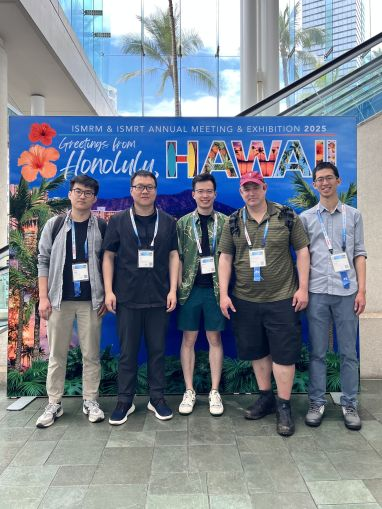
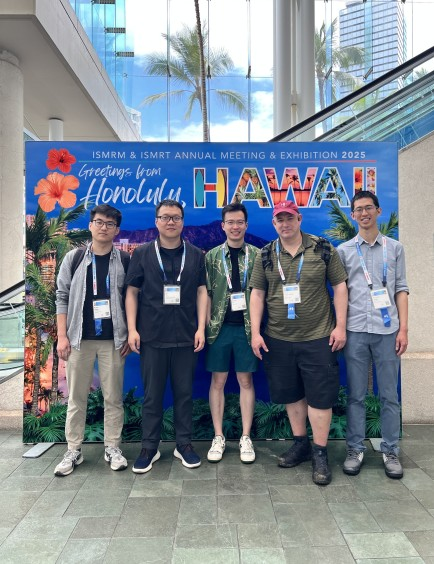
update ismrm.

diff --git a/_pages/about.md b/_pages/about.md
@@ -44,7 +44,7 @@ I expect to take on new graduate students in the near future. If you're interest
 
 [May 2025] Aloha! Aobo presented his energy-efficient pulsed magnet amplifier for MRI applications at the 2025 ISMRM Annual Meeting in Honolulu, HI.
 
-<img src="/images/ismrm_2.jpg" weight="300"/> 
+<img src="/images/ismrm_2.jpg" width="300"/> <img src="/images/ismrm_1.jpg" height="200"/> 
 
 [Mar. 2025] Frank, Anish, and Jackson presented our [ULTRAFAST project](https://arpa-e.energy.gov/programs-and-initiatives/search-all-projects/all-optical-control-isolated-high-voltage-power-systems-using-integrated-electronic-photonic-and-microfabricated-sensing-and-breaker-technology) at 2025 ARPA-E Energy Innovation Summit, Washington, DC. 
 
